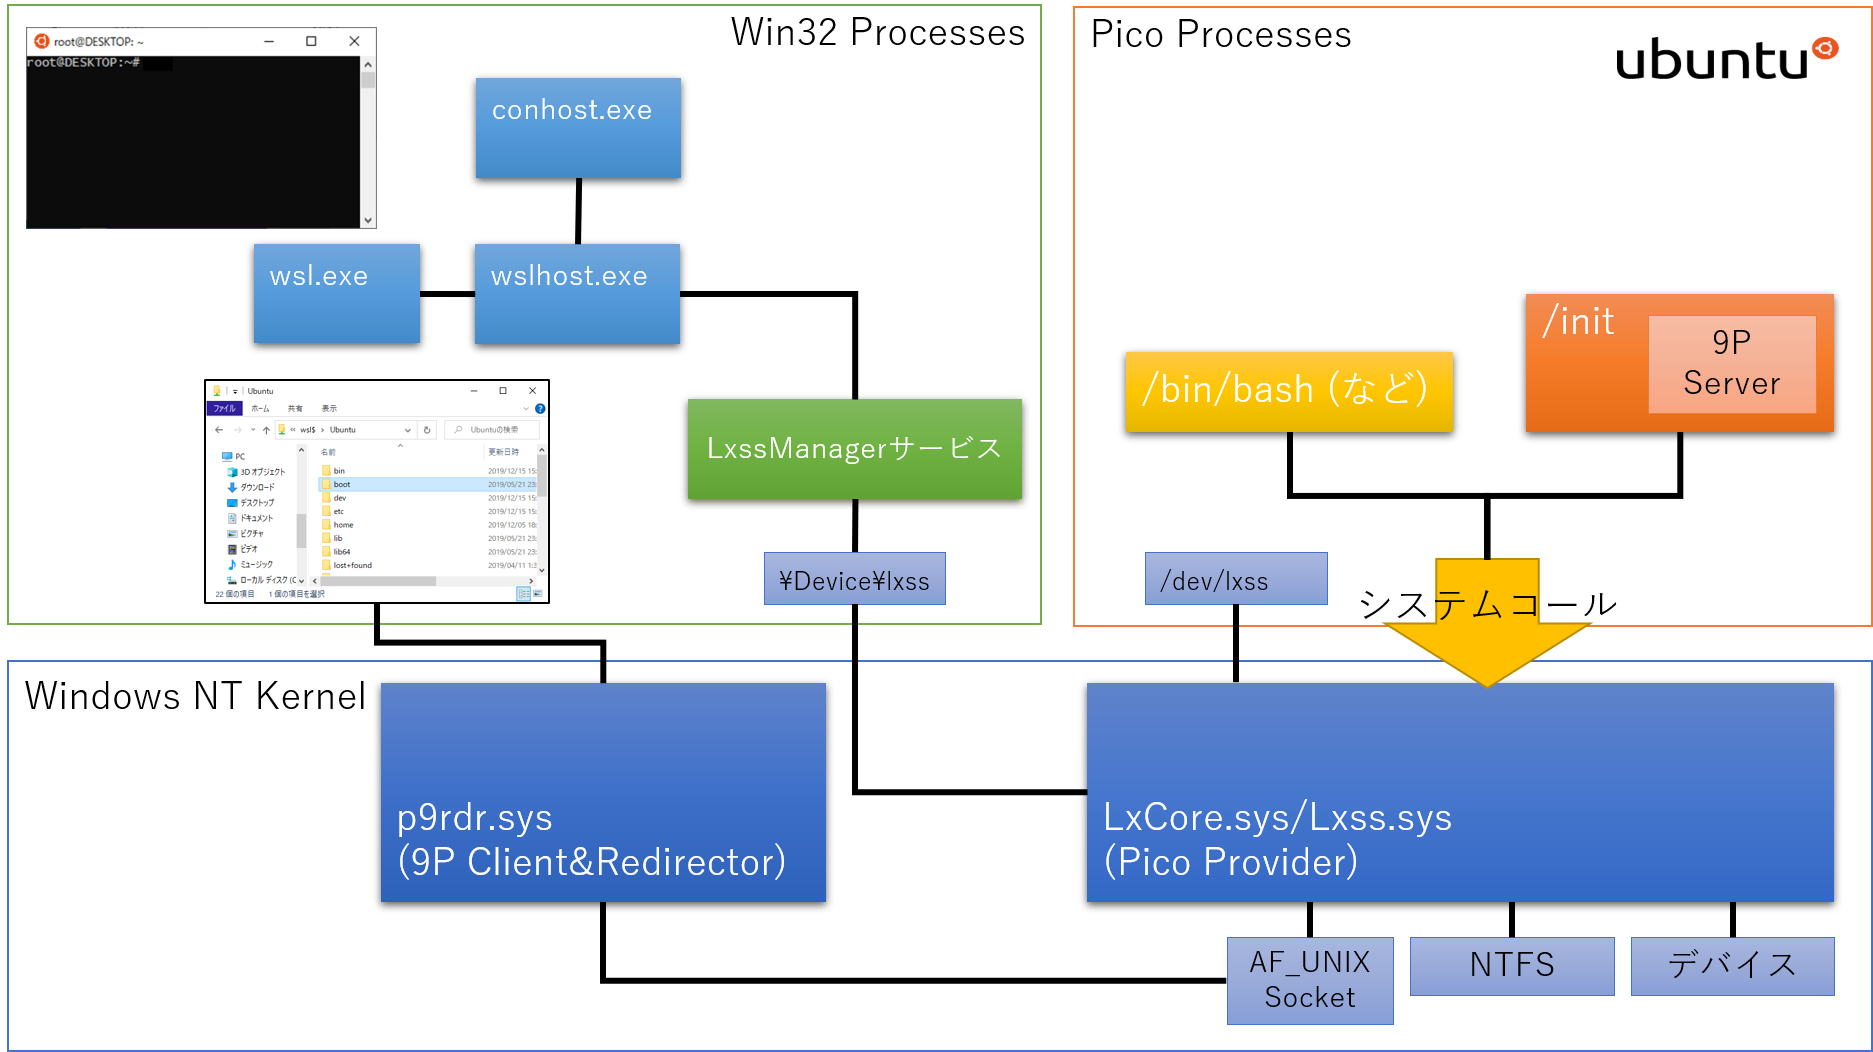
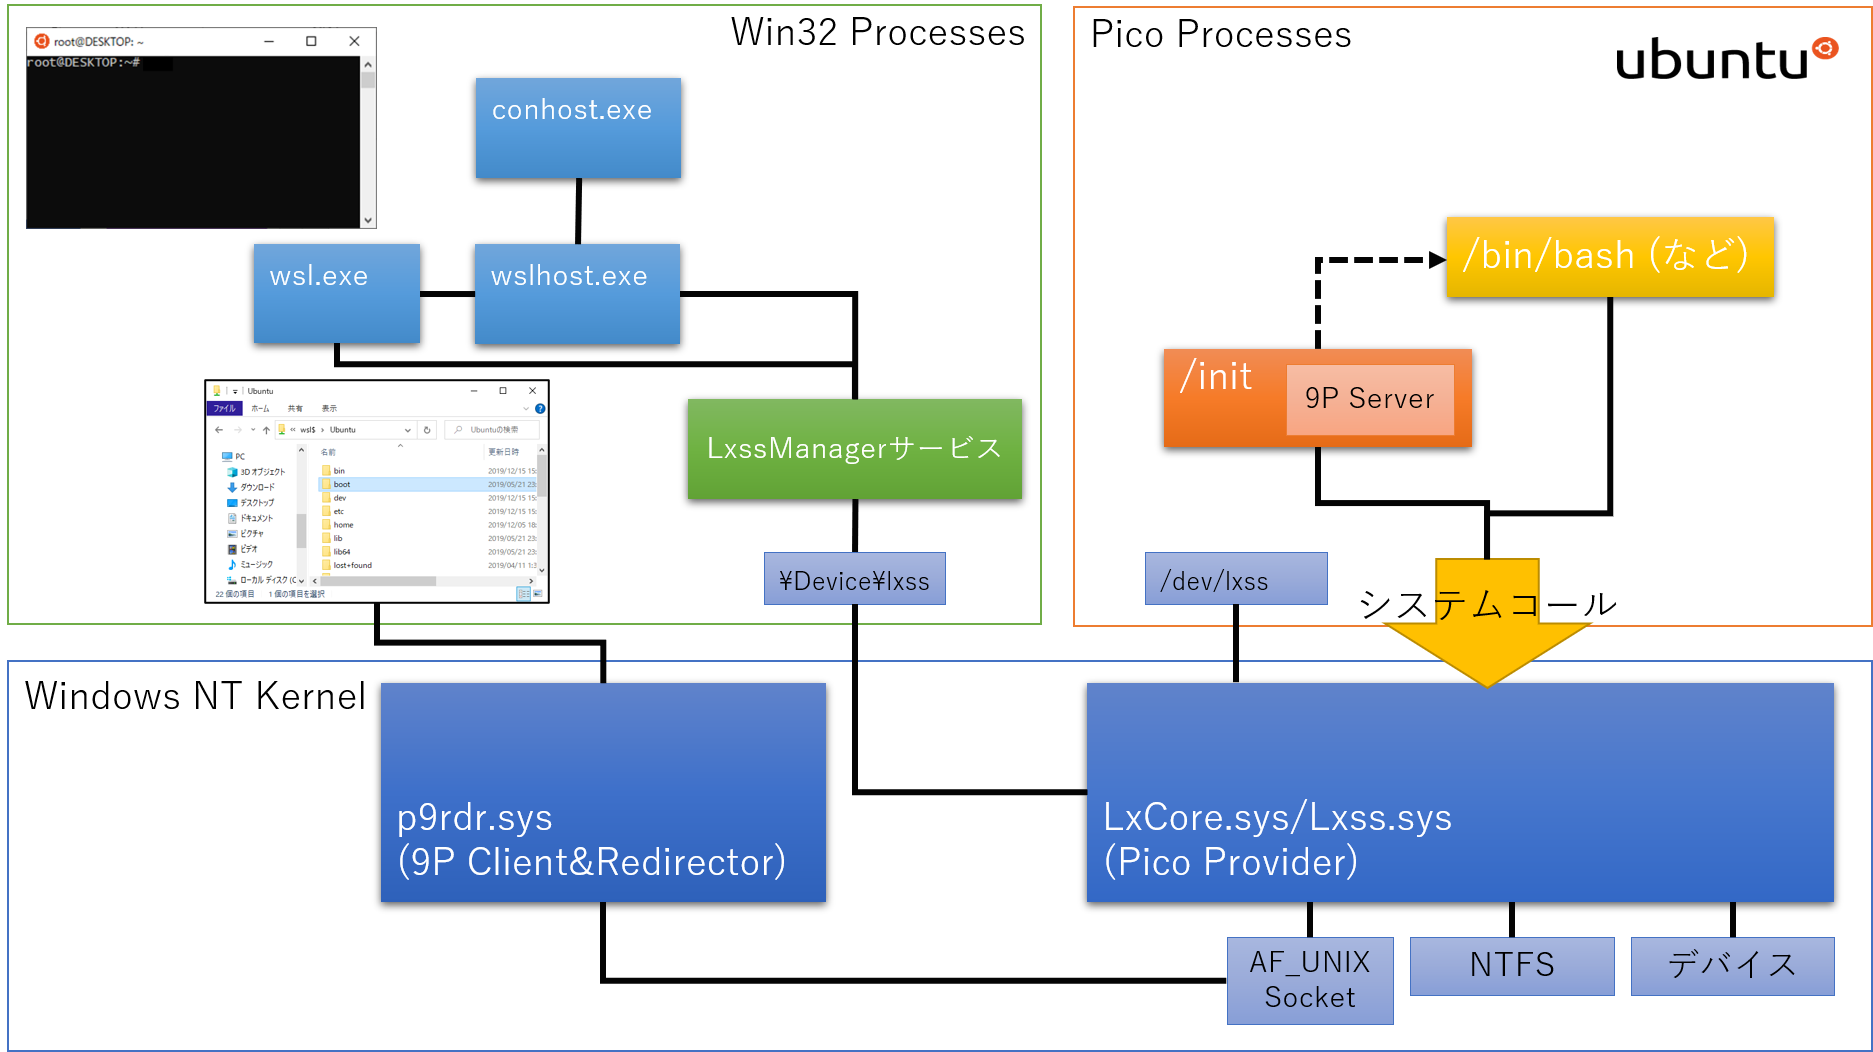
WSLアーキテクチャのページを編集

Changed region(s): [[0.5884, 0.1825, 0.9909, 0.5171], [0.1548, 0.3346, 0.4645, 0.365]]

diff --git a/docs/Windows/WSL＆コンテナ/Architecture.md b/docs/Windows/WSL＆コンテナ/Architecture.md
@@ -1,0 +1,267 @@
+# WSLのアーキテクチャ
+## WSLで実現できること
+Windows Subsystem for Linux(WSL)は少ないオーバーヘッドでGNU/LinuxのCLIプログラムを実行できる環境を提供する機能です。
+
+Windowsでは「Portable Executable」という形式の実行ファイルのみを動作させることができます。
+しかし、Linuxなどで利用されている実行ファイルは「Executable and Linkable Format(ELF)」と呼ばれる形式であるため、通常はWindows上で動作させることはできません。  
+
+LinuxのCLIプログラムを利用できる環境を用意するには、下記のような機能が必要です。
+
+* Linuxカーネルの機能  
+	ファイルシステム・プロセス管理・メモリ管理などのシステムコールAPIの提供
+* シェル環境  
+	bash, zsh, kshなど
+* パッケージマネージャ  
+	プログラムとライブラリの入手方法の提供
+
+WSLではLinuxシステムコールAPIをWindowsの機能として用意し、その上にLinuxディストリビューションをMicrosoft Storeからインストールするという形式をとっています。  
+
+WSLにはバージョン1とバージョン2が存在し、それぞれLinuxシステムコールAPIの提供方法が異なります。  
+
+| バージョン            | ベース技術                                              | システムコールAPI提供方法                   |
+| --------------------- | ------------------------------------------------------- | ------------------------------------------- |
+| バージョン1<br>(WSL1) | 「ピコプロセス」と呼ばれる<br>Windowsのプロセス隔離技術 | LxCore.sys/Lxss.sysという<br>NTカーネルドライバがLinux<br>システムコールをエミュレーション<br>(Linuxカーネルを使用しない) |
+| バージョン2<br>(WSL2) | 軽量仮想マシン(lightweight VM)<br>+Linuxカーネル        | 仮想マシン上でLinuxカーネルを稼働 |
+
+なお、本記事ではWSLのバージョンを明確に区別するため、WSLバージョン1を「WSL1」、バージョン2を「WSL2」と記載します。  
+また、WSL1とWSL2の両方に共通する機能の場合は「WSL1/WSL2」という風に記載します。  
+
+## WSL1の機能
+### 構成要素
+WSL1は、下記の図に示されるような要素から成り立っています。
+
+<a href="/imgs/windows_wsl_wsl1.png" data-lightbox="windows_wsl_wsl1"><img src="/imgs/windows_wsl_wsl1.png" /></a>  
+
+* ランチャー/フロントエンド(wsl.exe/wslhost.exe)
+
+* LxssManager(LxssManager.dll)
+
+* ピコプロバイダー(カーネルモードドライバー: LxCore.sys/Lxss.sys)
+
+* ピコプロセス
+	* MS製initプロセス
+	* Linuxディストリビューション
+
+* Plan9プロトコル リダイレクタ(カーネルモードドライバー: p9rdr.sys)
+
+参考: DEFEND AND UNDERSTAND WSL - ionescu007/lxss - Github[^1]
+
+### プロセス管理と「ピコプロセス」
+WSL1では、Windows上で「ピコプロセス(Pico Process)」[^2]と呼ばれる形式のプロセスとして、Linuxプログラムを動作させます。  
+
+「ピコプロセス」は、Windowsの「最小プロセス(Minimal Porcess)」という仕組みを利用して実現しています。
+「最小プロセス」は通常のユーザーモードプロセスと下記のような点が異なります。
+
+!!! quote "「最小プロセス」の特徴"
+
+> 1. ntdll.dllはプロセスにマップされない  
+		ユーザーモードのバイナリーである「ntdll.dll」は、デフォルトでプロセスにマップされません。  
+
+> 2. PEBは生成されない  
+	プロセスの管理に使用するPEB（Process Environment Block）は生成されません。  
+
+> 3. 初期スレッドは生成されない  
+	プロセス生成時、初期スレッド（メインスレッド）を生成しません。  
+
+> 4. TEBは自動的に生成されない  
+	「ピコプロセス」内でスレッドが生成されても、スレッドの管理に使用するTEB（Thread Environment Block）は自動的に生成されません。  
+
+> 5. 共有ユーザーデータセクションはマップされない  
+	共有ユーザーデータセクションは、プロセスにマップされません。  
+	共有ユーザーデータセクションとは、すべてのユーザーモードのアドレス空間に読み込み専用でマップされ、システム共通の情報を効果的に検索するために使用されるブロックです。  
+
+> 6. PEB/TEBなしで動作する  
+	従来のプロセスのようにプロセスが常にPEB/TEBを持っている前提で動作する個所は、PEB/TEBなしでもプロセスを扱えるように変更されています。  
+
+> 7. カーネルは積極的にプロセスの管理を行わない  
+	Windowsカーネルは、積極的にプロセスの管理を行いません。  
+	しかしスレッドのスケジューリングやメモリー管理など、ユーザーが利用したいOSのすべての基盤技術は引き続き提供されます。  
+
+> 引用元: <cite>WSL その19 - WSLを構成する基盤の1つであるピコプロセスとは - kledgeb[^3]</cite>  
+
+「ピコプロセス」は、これらの特徴を利用して、通常のWindowsプロセスからの隔離と最小限のプロセス管理を実現しています。  
+
+### システムコールAPIの提供
+WSL1では、LxCore.sys, lsxx.sysの2つのカーネルモードドライバーがNTカーネル上で動作しています。  
+この2つのドライバーは「ピコプロバイダー」と呼ばれ、これらがLinuxシステムコールAPIを提供しています。  
+「ピコプロセス」の呼び出したシステムコールや例外は、ドライバー上での処理やWindowsシステムコールへの変換されます。
+これにより、WSL1においてLinuxカーネル相当の機能を実現しています。  
+
+参考文献: WSL その24 - システムコールとは（前編）・LinuxカーネルのシステムコールとWindows NTカーネルのシステムコール - kledgeb[^4]
+
+### ファイルシステム
+#### VolFs
+「VolFs」とは、WSL1で動作するディストリビューションのルートパーティションで使用するファイルシステムです。  
+これは、WSL1独自のファイルシステムであり、WSL1ではext4やxfs、btrfsといったファイルシステムをルートパーティションに利用することはできません。
+
+VolFsでのファイルの実体は、WindowsのNTFS上に保存されています。  
+しかし、NTFSではLinux上で利用されるパーミッション情報などが保存できないため、VolFsでは実ファイルとは別にメタデータとしてパーミッション情報を保存しています。  
+
+VolFsは、ext4やxfs、btrfsと同様に、Virtual File System(VFS)というファイルシステムの抽象化インターフェースの上に実装されており、他のLinux上で利用されるファイルシステムと同様に扱うことができるようになっています。  
+
+#### DrvFs
+「DrvFs」とは、WSL1の中からWindows上のCドライブなどの「ドライブ文字を割り当てられているローカルファイルシステム」へアクセスするためのファイルシステムです。  
+ネットワークドライブには対応していません。  
+
+こちらもWSL1の独自のファイルシステムですが、パーミッション情報などはログインしたユーザで`777`もしくは`555`で固定されており、変更することはできません。  
+
+WSLの起動時に自動マウントされるようになっていますが、USBフラッシュディスクなどを後から接続した場合は、下記のようなコマンドで手動マウントすることでアクセスできるようになります。  
+
+!!! example "Eドライブをマウント"
+	```
+	sudo mkdir /mnt/e
+	sudo mount -t drvfs E: /mnt/e
+	```
+
+## initプロセスについて
+Linuxシステムでは通常、カーネルによりinitプロセスが起動され、その後initが各Daemonの起動を担い、Linuxシステム上の全てのプロセスはプロセスID = 1 のinitプロセスを親として起動されます。  
+
+WSLでも、initプロセスが全プロセスの親プロセスとなる点は同様です。  
+しかし、WSLで利用されるinitは、WSL専用にMS社によって開発されたソフトウェアであり、通常のLinuxで利用されているSystem V initやsystemdとは異なるものとなっています。  
+
+WSLのinitプログラムは`/sbin/init`ではなく、`/init`に配置されています。  
+
+### ユーザランドプロセスの起動
+WSLでは、Daemonの起動は行われず、この点がSystem V initやsystemdなどとは異なります。  
+
+WSLが起動されると、プロセスID = 1 のプロセスとして最初に起動し、`/etc/passwd`ファイルに記載されているログインシェルを実行します。  
+
+### Windows→Linuxファイルシステムへのアクセス
+またWSLのinitは、WindowsからLinuxファイルシステムへアクセスするための機能を提供しています。  
+
+WindowsからLinux上のファイルシステムへは、UNCパスで`\\wsl$\[ディストリビューション名]`を指定することで、WSLで起動しているディストリビューションのファイルシステムへアクセスすることができます。  
+
+#### 仕組み
+Windows上からLinuxファイルシステムへのアクセスには「Plan 9 Filesystem Protocol(9P)」と呼ばれるプロトコルが利用されています。
+これは、「Plan 9 from Bell Labs」というUNIXの後継としてベル研究所で開発されたOSにおいて、システムの構成要素間の接続を目的として開発されたネットワークプロトコルです。  
+
+WSLのinitには9Pサーバを搭載しており、Windowsからネットワーク接続を通じて、9Pサーバへアクセスすることができます。  
+initプロセスは、9Pサーバへのアクセスを受け取ると、Linuxファイルシステム上のファイルを読み書きするような形になっています。  
+
+また、Windows側では`p9rdr.sys`というファイルシステムリダイレクタがカーネルモードドライバーとして稼働しています。  
+このリダイレクタはWindowsプロセスから`\\wsl$`へアクセスした際に動作し、P9クライアントとしてWSL上のP9サーバへアクセスし、9Pサーバから受け取ったファイルやフォルダなどのデータをエクスプローラーなどのWindowsアプリケーション上に表現することで、WindowsからLinuxファイルシステムへのアクセスを実現しています。  
+
+<a href="/imgs/windows_wsl_windows_to_linux_file_access.png" data-lightbox="windows_wsl_windows_to_linux_file_access"><img src="/imgs/windows_wsl_windows_to_linux_file_access.png" /></a>  
+
+### Linux→Windowsプログラムの呼び出し
+WSLでは、WSL内のbashなどから、`cmd.exe`などのWindowsプログラムを呼び出すことができます。  
+
+#### 仕組み
+initプログラムの引数にWindowsプログラムを指定すると、WSL内からWindows上へ情報が渡され、Windows上でプログラムが起動します。  
+
+WSLではDrvFSにより`/mnt/c/`などのディレクトリに、Windowsのファイルシステムをマウントしており、
+Windowsプログラムはその配下に配置されています。  
+WSLからWindowsプログラムを呼び出す際には、initプログラムの引数に`/mnt/c/`から始まるWindowsファイルシステム上のプログラムパスを与えると、initに内部で`C:\`から始まるWindows側でのパスに変換され、LxCore.sysなどを通して`wsl.exe`へ渡されます。
+`wsl.exe`が渡されたパスのWindowsプログラムを起動することで、WSL内部からWindowsプログラムをしています。  
+
+また、デフォルトでWindows上のPATH環境変数をWSLへ引き継いでいるため、フルパスを指定する必要がないようになっています。
+(ただし、コマンドプロンプトやPowershellと異なり、`.exe`といった拡張子の指定は必要です。)  
+
+## WSL2の機能
+### WSL2とは
+2020年春ごろに公開予定のWindows 10 バージョン2004 以降では、現行のWSL(以降、バージョン1と記載) に加えて、WSL2(以降、WSL2 もしくは バージョン2と記載) を利用出来るようになります。
+
+WSL2では、バージョン1と比較して、下記の改善がなされています。
+
+* Linux上でのファイルアクセス速度の向上
+* システムコールの完全互換
+
+WSL2は、WSL1を置き換えるものではなく、ディストリビューション単位でバージョン切り替えて利用することが出来ます。  
+
+!!! note "WSL1からWSL2に切り替えるコマンド"
+
+	```
+	> wsl.exe --list --verbose
+	  NAME                   STATE           VERSION
+	* Ubuntu                 Running         1
+
+	> wsl.exe --set-version Ubuntu 2
+	変換中です。この処理には数分かかることがあります...
+	WSL 2 との主な違いについては、https://aka.ms/wsl2 を参照してください
+	変換が完了しました。
+
+	> wsl.exe --list --verbose
+	  NAME                   STATE           VERSION
+	* Ubuntu                 Running         2
+	```
+
+??? note "WSL2からWSL1に戻すコマンド"
+
+	```
+	> wsl.exe --list --verbose
+	  NAME                   STATE           VERSION
+	* Ubuntu                 Running         2
+
+	> wsl.exe --set-version Ubuntu 1
+	変換中です。この処理には数分かかることがあります...
+	変換が完了しました。
+
+	> wsl.exe --list --verbose
+	  NAME                   STATE           VERSION
+	* Ubuntu                 Running         1
+	```
+
+### WSL2の構成要素
+WSL2は、下記の図に示されるような要素から成り立っています。
+
+<figure style="text-align: center;">
+<a href="/imgs/windows_wsl_wsl2.png" data-lightbox="windows_wsl_wsl2"><img src="/imgs/windows_wsl_wsl2.png" /></a>  
+<figcaption>図. WSLとWSL2 アーキテクチャの概略</figcaption>
+</figure>
+
+* ランチャー/フロントエンド(wsl.exe/wslhost.exe)
+
+* LxssManager(LxssManager.dll)
+
+* Hyper-V ホスト コンピューティング サービス(vmcompute.exe)
+
+* 仮想マシン ワーカー プロセス(vmwp.exe : 9Pサーバ機能を含む)
+
+* Hyper-Vハイパーバイザ
+	* 軽量仮想マシン(Light-weight Virtual Machine)
+		* Linuxカーネル
+		* コンテナ
+			* 仮想HDD(ext4.vhdx)
+			* MS製init(9Pサーバ機能を含む)
+			* Linuxディストリビューション
+
+* Plan9プロトコル リダイレクタ(カーネルモードドライバー: p9rdr.sys)
+
+参考: The new Windows subsystem for Linux architecture: a deep dive - BRK3068 - Microsoft Developer - YouTube[^6]
+
+### システムコールAPIの提供
+WSL2では、完全なLinuxシステムコールの提供のため、Linuxカーネルを実行しています。
+カーネルの実行環境としてHyper-Vのような準仮想化ハイパーバイザを使用しており、ホストOSとなるWindows10もHyper-Vの有効化時と同様に、仮想化環境の中に入ります。  
+
+対してWSL環境は、軽量仮想マシンと呼ばれるタイプの仮想マシンインスタンス上でLinuxカーネルが起動し、その上で実行されるコンテナランタイム上で動作します。(Ubuntuであれば、`Ubuntu` on `Container` on `Light weight VM` on `Hyper-V`です。)  
+また、LinuxカーネルはMicrosoft社によりカスタマイズされたものが使用されており、これはGithub上で公開されています。[^5]
+
+### ファイルシステム
+### ルートファイルシステム
+ディストリビューションがインストールされる、ルートファイルシステムが以下のように変更されています。
+
+* WSL1: NTFS上にマッピングされたVolFS
+* WSL2: 仮想HDD(root.vhdx)上のext4
+
+NTFSを通して、メタデータを取得・設定する必要がなくなったために、アクセス速度が向上しています。
+
+### Windowsファイルシステムへのアクセス
+WSL内からWindows上のNTFSなどへアクセスする方法も変更されています。
+
+* WSL1: DrvFSを通したアクセス
+* WSL2: 9Pでのアクセス
+
+WSL1でのDrvFSへのアクセスをシステムコールとして呼び出した際には、カーネルモードドライバーであるLxCore.sys, lsxx.sysが処理していました。  
+しかし、WSL2では軽量仮想マシン+コンテナ技術を採用しているため、カーネルモードドライバーを利用した方法から、9Pを経由したアクセスに変更されています。
+
+WSL内のinitと同様に、Windows側でも軽量仮想マシンのVM Workderプロセス内で9Pサーバが動作しており[^7]、
+この9Pサーバを通じて、LinuxプロセスからCドライブなどへアクセスされます。
+
+
+[^1]: [DEFEND AND UNDERSTAND WSL - ionescu007/lxss - Github](https://github.com/ionescu007/lxss/blob/master/WSL-BlueHat-Final.pdf)
+[^2]: [Pico Process Overview - Windows Subsystem for Linux](https://blogs.msdn.microsoft.com/wsl/2016/05/23/pico-process-overview/)
+[^3]: [WSL その19 - WSLを構成する基盤の1つであるピコプロセスとは - kledgeb](https://kledgeb.blogspot.com/2016/06/wsl-19-wsl1.html)
+[^4]: [WSL その24 - システムコールとは（前編）・LinuxカーネルのシステムコールとWindows NTカーネルのシステムコール - kledgeb](https://kledgeb.blogspot.com/2016/06/wsl-24-linuxwindows-nt.html)
+[^5]: [GitHub - microsoft/WSL2-Linux-Kernel : The source for the Linux kernel used in Windows Subsystem for Linux 2 (WSL2)](https://github.com/microsoft/WSL2-Linux-Kernel)
+[^6]: [The new Windows subsystem for Linux architecture: a deep dive - BRK3068 - Microsoft Developer - YouTube](https://www.youtube.com/watch?v=lwhMThePdIo)
+[^7]: [Attacking the VM Worker Process - Microsoft Security Response Center](https://msrc-blog.microsoft.com/2019/09/11/attacking-the-vm-worker-process/)
